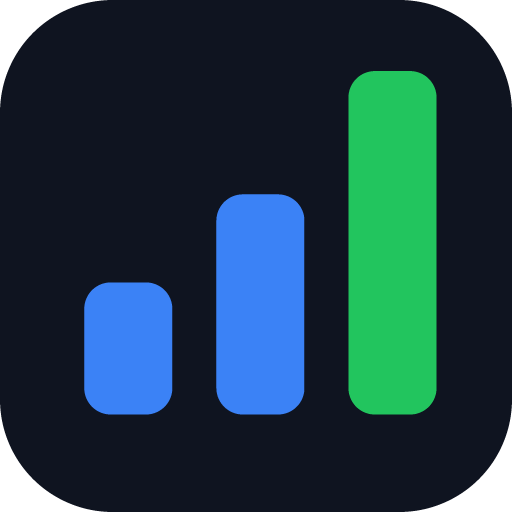
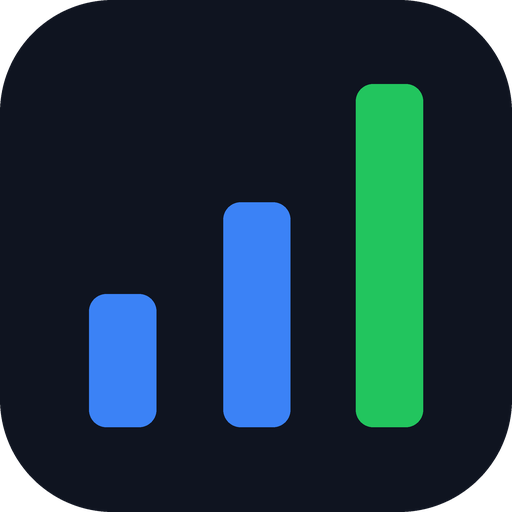
Ícones: barras do Financial do mesmo tamanho das da Frota (APK 1.72.2, iPhone e web); Gestão volta ao tamanho anterior
Claude-Session: https://claude.ai/code/session_013dYnp6Q4FbKKHgHExvse5D

Changed region(s): [[0.6562, 0.125, 0.875, 0.8438], [0.4062, 0.375, 0.5938, 0.8438], [0.1562, 0.5312, 0.3438, 0.8438]]

diff --git a/gestao.html b/gestao.html
@@ -5,8 +5,8 @@
 <meta name="viewport" content="width=device-width, initial-scale=1, viewport-fit=cover">
 <meta name="robots" content="noindex, nofollow">
 <title>EasyAPP Gestão</title>
-<link rel="icon" href="img/gestao-192.png?v=2">
-<link rel="apple-touch-icon" href="img/gestao-180.png?v=2">
+<link rel="icon" href="img/gestao-192.png?v=3">
+<link rel="apple-touch-icon" href="img/gestao-180.png?v=3">
 <meta name="theme-color" content="#0a0a0b">
 <link rel="manifest" href="gestao.webmanifest">
 <meta name="apple-mobile-web-app-capable" content="yes">
@@ -204,7 +204,7 @@
 </style>
 </head>
 <body>
-<div id="abertura"><img src="img/gestao-192.png?v=2" alt=""><b>EasyAPP <em>Gestão</em></b><small>abrindo o painel…</small></div>
+<div id="abertura"><img src="img/gestao-192.png?v=3" alt=""><b>EasyAPP <em>Gestão</em></b><small>abrindo o painel…</small></div>
 <div class="cx" id="cx"></div>
 <script src="gestao-testes.js?v=3.2.1"></script>
 <script>
@@ -218,7 +218,7 @@ var DADOS = null, FILTRO = 'todos', BUSCA = '';
 var EDITANDO = null;   // voucher aberto no formulário para editar (null = criar novo)
 var LOG = null, LOG_FILTRO = 'todos';   // log da pessoa aberta na janela
 // versão deste painel: suba a cada publicação (aparece no rodapé e no login)
-var VERSAO_PAINEL = '1.29.2 · 04/11/2026';
+var VERSAO_PAINEL = '1.29.3 · 04/11/2026';
 var ABERTO_EM = Date.now();
 /* O navegador guarda a página (o GitHub Pages manda guardar 10 min, e o painel
    instalado na tela de início segura mais). Ao abrir, confere a versão da
